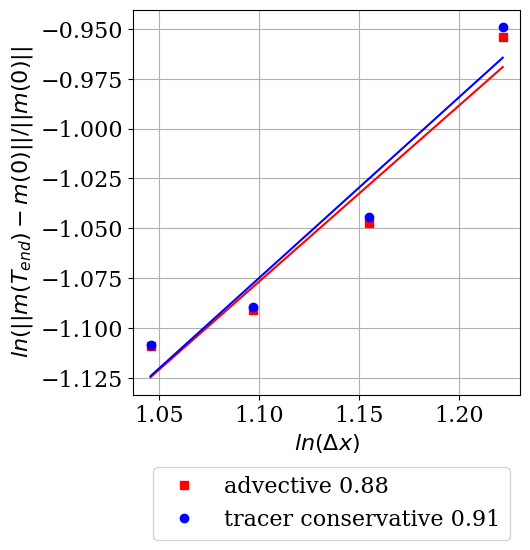
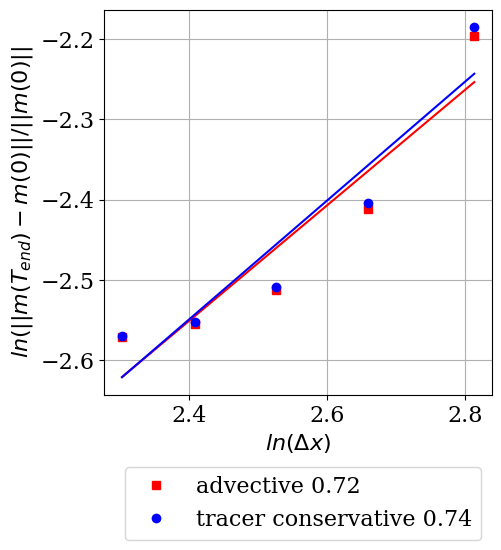
NL slice order 0 convergence figures

diff --git a/paper_test_suite/NL_slice/plot_NL_slice_comparison.py b/paper_test_suite/NL_slice/plot_NL_slice_comparison.py
@@ -1,0 +1,131 @@
+# A script to make a convergence plot from 
+# the conservation test with the NL_slice test.
+# This uses the tomplot library
+
+import matplotlib.pyplot as plt
+from netCDF4 import Dataset
+from os.path import abspath, dirname
+from tomplot import (set_tomplot_style, plot_convergence,
+                     only_minmax_ticklabels, tomplot_legend_ax,
+                     tomplot_legend_fig)
+import numpy as np
+
+order = 0
+configuration = 'convergence'
+quantity = 'm_X' # tracer_density or m_X
+
+# Tracer density will be the total and m_X is the L2 of stead state error
+
+# ---------------------------------------------------------------------------- #
+# Directory for results and plots
+# ---------------------------------------------------------------------------- #
+plot_dir = f'{abspath(dirname(__file__))}/figures'
+if quantity == 'm_X':
+    if configuration == 'convergence':
+        plot_name = f'{plot_dir}/NL_slice_ord_{order}_conv_m_l2sse.png'
+    else:
+        plot_name = f'{plot_dir}/NL_slice_ord_{order}_consist_m_l2sse.png'
+else:
+    if configuration == 'convergence':
+        plot_name = f'{plot_dir}/NL_slice_ord_{order}_conv_Td_diff.png'
+    else:
+        plot_name = f'{plot_dir}/NL_slice_ord_{order}_consist_Td_diff.png'
+
+# Arrays to store plotting values
+conservative = []
+advective = []
+
+# Spatial refinements
+dxzs = [120, 140, 160, 180, 200]# [100, 140, 160, 180]
+dx_values = []
+
+for dxz in dxzs:
+    dx_values.append(2000./dxz)
+
+# Make a line for the conservative transport of the mixing ratio
+for dxz in dxzs:
+    dirname = 'NL_slice_conservative_order_'+str(order)+'_'+configuration+'_dxz_'+str(dxz)
+    nc = Dataset(f'results/{dirname}/diagnostics.nc')
+
+    if quantity == 'tracer_density':
+    # Extract the tracer density:
+    
+        rho_X = nc.groups['TracerDensity_m_X_rho_d']
+        
+        T_d = rho_X.variables['total'][:]
+        
+        # Compute the relative change in rho_X:
+        T_d_diff = np.abs(T_d[-1] - T_d[0])/T_d[0]
+        
+        conservative.append(T_d_diff)
+    elif quantity == 'm_X':
+        m_err = nc.groups['m_X_error']
+        m_err_l2 = m_err.variables['l2'][:]
+        conservative.append(np.abs(m_err_l2[-1]))
+    else:
+        raise ValueError('Not correct inputs')
+
+# Make a line for the advective transport of the mixing ratio
+for dxz in dxzs:
+    dirname = 'NL_slice_advective_order_'+str(order)+'_'+configuration+'_dxz_'+str(dxz)
+    
+    nc = Dataset(f'results/{dirname}/diagnostics.nc')
+
+    if quantity == 'tracer_density':
+    # Extract the tracer density:
+    
+        rho_X = nc.groups['TracerDensity_m_X_rho_d']
+        
+        T_d = rho_X.variables['total'][:]
+        
+        # Compute the relative change in rho_X:
+        T_d_diff = np.abs(T_d[-1] - T_d[0])/T_d[0]
+        
+        advective.append(T_d_diff)
+    elif quantity == 'm_X':
+        m_err = nc.groups['m_X_error']
+        m_err_l2 = m_err.variables['l2'][:]
+        advective.append(np.abs(m_err_l2[-1]))
+    else:
+        raise ValueError('Not correct inputs')
+    
+##################################
+# Labels for the two plots:
+all_error_data = [advective, conservative]
+colours = ['red', 'blue']
+markers = ['s', 'o']
+labels = ['advective', 'tracer conservative']
+
+print(all_error_data)
+
+if quantity == 'tracer_density':
+    log_by = 'axes'
+    log_base=10
+    ylabel = r"$(T_d(T_{end}) - T_d(0)/T_d(0))$"
+    xlabel = r"$log(\Delta x)$"
+else:
+    log_by='data'
+    log_base='e'
+    ylabel = "$ln(||m(T_{end}) - m(0)||/||m(0)||$"
+    xlabel = r"$ln(\Delta x)$"
+
+set_tomplot_style()
+fig, ax = plt.subplots(1, 1, figsize=(5, 5)) 
+for error_data, colour, marker, label in \
+        zip(all_error_data, colours, markers, labels):
+    plot_convergence(ax, dx_values, error_data, label=label,
+                     color=colour, marker=marker, log_by=log_by,
+                     log_base=log_base)
+                     
+ax.set_xlabel(xlabel)
+ax.set_ylabel(ylabel)
+
+tomplot_legend_ax(ax, location='bottom')
+
+plt.grid()
+# ---------------------------------------------------------------------------- #
+# Save figure
+# ---------------------------------------------------------------------------- #
+print(f'Saving figure to {plot_name}')
+fig.savefig(plot_name, bbox_inches='tight')
+plt.close()
